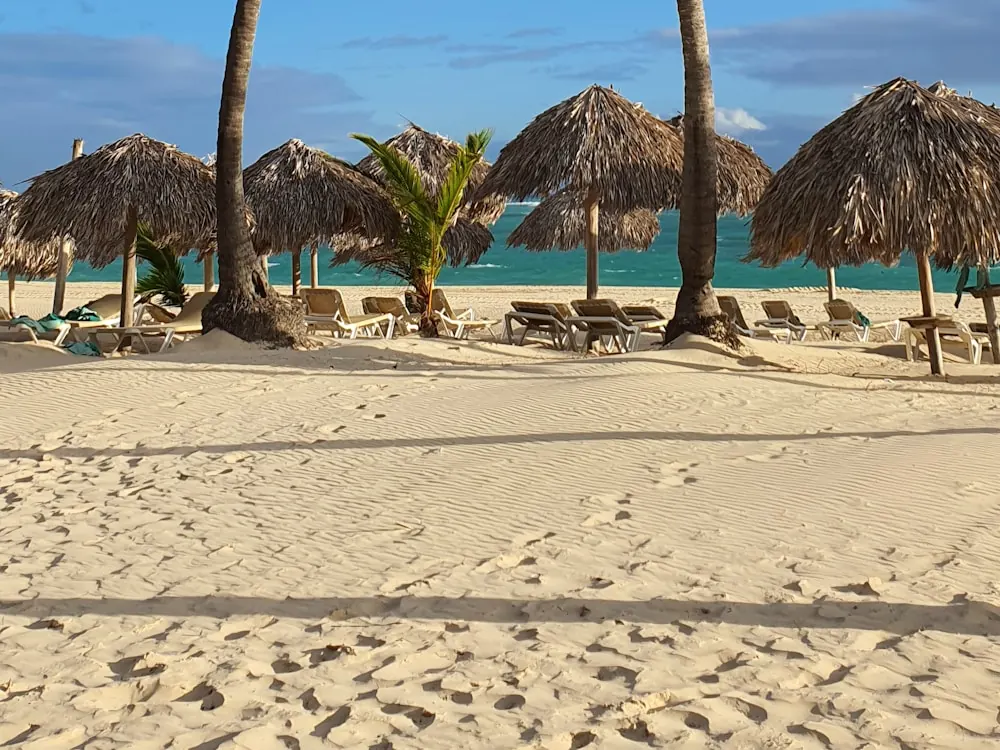
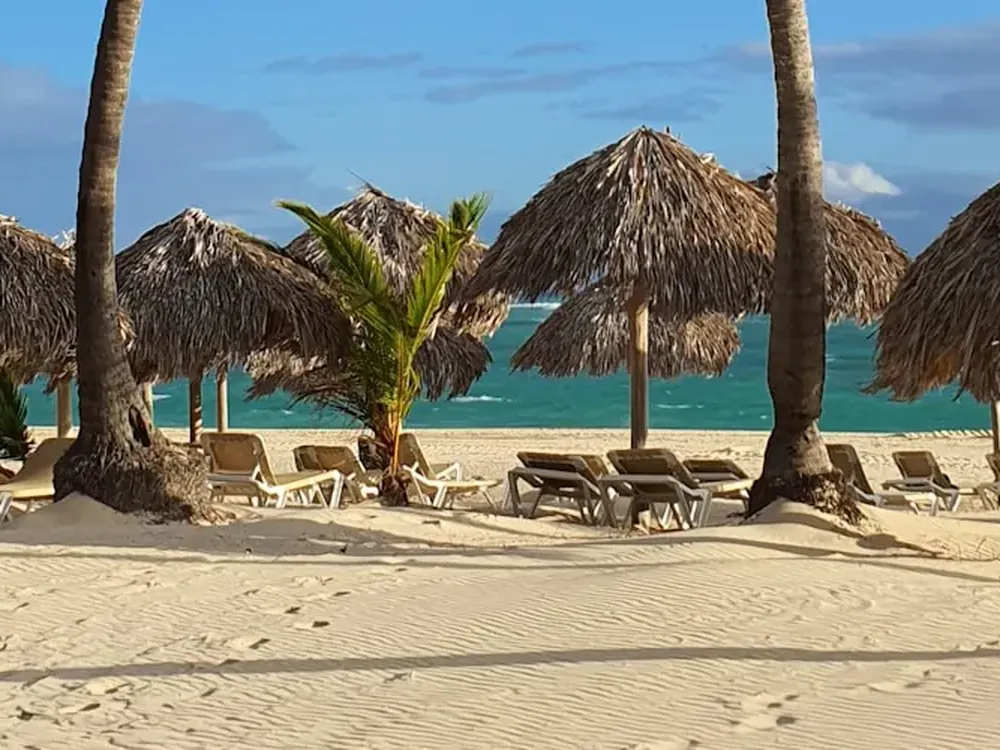
N-05.1: inventario de las 22 fotos de public/destinos/, recorte de punta-cana y alt corregidos (#36)
Revisión imagen por imagen (22/22, con lectura visual real, no por nombre de archivo) contra
los seis criterios de fase-5-fotografia.md §3 y las reglas de encuadre §4: 13 se quedan, 1 se
re-encuadra (punta-cana.webp, aplicado con Pillow porque sips no puede escribir WebP) y 8 se
reemplazan (provisional, prioridad ya declarada en §5). Inventario completo con uso real, luz,
personas y composición en docs/brand/specs/ejecucion/N-05.1-inventario-fotos.md.

Los tres alt de messages/{es,en}.json que describían algo ausente de la foto (viajeros que no
están, atardecer que es día nublado, playa que es una vista aérea sin playa) se reescriben para
describir lo que sí se ve, en los dos idiomas.

Hallazgos fuera de alcance documentados sin corregir: 4 rutas de galería rotas en
lib/mock/offers.ts, cancun-3.webp huérfana con posible marca de tercero en unas banderas, y
nosotros.webp con alt="" siendo una foto de contenido, no decorativa.

diff --git a/docs/brand/specs/ejecucion/N-05.1-inventario-fotos.md b/docs/brand/specs/ejecucion/N-05.1-inventario-fotos.md
@@ -1,0 +1,113 @@
+# N-05.1 — Inventario de las 22 imágenes de `public/destinos/`
+
+> Fuente: `docs/brand/specs/fase-5-fotografia.md` §1, §3, §4, §5. Revisión hecha imagen por
+> imagen (herramienta de lectura de imágenes), con el criterio de marca puesto y priorizando
+> la vista móvil. Continúa la revisión de 9/22 que ya traía fase-5 §1.2 — aquí van las 22.
+>
+> Veredicto: **se queda** (cumple los seis criterios para su uso) · **se re-encuadra** (el
+> contenido sirve, el recorte estaba mal) · **se reemplaza** (no cumple y no se arregla
+> recortando; queda provisional, ver `N-05.2`).
+
+## Herramientas de recorte
+
+`sips` (macOS) puede **leer** WebP (dimensiones, píxeles) pero **no puede escribir** WebP
+(`Error: Can't write format: org.webmproject.webp` — probado, no es un supuesto). El entorno sí
+tenía `cwebp` y Pillow (`python3 -c "import PIL"`) instalados vía Homebrew, sin necesidad de red,
+así que el recorte de `punta-cana.webp` se hizo con Pillow (decode → crop → resize LANCZOS →
+re-encode WebP `quality=80, method=6`) y sí se aplicó de verdad al archivo del repo.
+
+## Tabla (22 filas)
+
+| # | Archivo | Uso real (dónde se referencia) | Dimensiones | Personas | Luz | Composición / encuadre | **Veredicto** |
+|---|---|---|---|---|---|---|---|
+| 1 | `home-hero.webp` | Hero home (foto 1), `app/[locale]/(sitio)/page.tsx` | 1920×1080 (hero escritorio) | No | Natural, rayos de sol ✓ | Paisaje sin gente; el hero de home exige personas (§3.1, obligatorio) | **Se reemplaza** — prioridad 1 (fase-5 §5) |
+| 2 | `home-hero-movil.webp` | Hero home, recorte móvil de la misma foto 1 | 900×1350 (hero móvil 2:3) | No | Natural, mismos rayos | Mismo problema de fondo que #1 (sin gente); además la franja donde vive el texto móvil (72% inferior, §4) cae sobre bosque denso, no limpia — no se arregla recortando porque el defecto es "no hay persona", no el encuadre | **Se reemplaza** — junto con #1 (mismo origen) |
+| 3 | `cartagena-hero.webp` | Ciclo hero home (slide 2) y hero destino Cartagena; también reutilizada como `imagenHero` del mock "Guatapé" en `lib/mock/destinations.ts` | 1920×1080 | No (una persona minúscula, borrosa, en el extremo derecho — no es el sujeto) | Plana, día nublado | Composición llena borde a borde (balcón, farol, muro) — no hay tercio inferior izquierdo limpio para el titular (§4) en ningún recorte posible dentro de la misma foto | **Se reemplaza** |
+| 4 | `cartagena.webp` | Tarjeta destino Cartagena (`imagen`) | 1000×750 (tarjeta 4:3) | No | Cálida ✓ | Calle colorida reconocible, borde inferior es calle/acera (nada crítico ahí) | **Se queda** |
+| 5 | `cartagena-2.webp` | Galería oferta "Cartagena 4 días" (`lib/mock/offers.ts`) | 600×600 (galería 1:1) | **Sí** — una persona caminando, de espaldas, pequeña y lejana | Natural, cálida | Calle de flores y balcones, reconocible | **Se queda** — aporta a la cuota de "1 de cada 3 con personas" (§3.1), aunque sea de espaldas y a distancia |
+| 6 | `cartagena-3.webp` | Galería oferta "Cartagena 4 días" | 600×600 | **Sí** — palenquera, rostro y sonrisa visibles, expresión genuina | Natural ✓ | Retrato reconocible (taxi amarillo, vestido tradicional), momento auténtico | **Se queda** — es la mejor foto del set: cumple los seis criterios sin reservas. Recomendación fuera de alcance de este nodo: evaluar promoverla a un uso más visible (hero/campaña) en una fase de arquitectura, no en este PR |
+| 7 | `san-andres.webp` | Tarjeta destino San Andrés | 1000×750 | No | Natural ✓ | Playa y mar turquesa reconocibles; postal, pero las fichas de destino pueden mostrar el lugar sin gente si es reconocible (§3.1) | **Se queda** |
+| 8 | `san-andres-hero.webp` | Ciclo hero home (slide 3) | 1920×1080 | No | Natural ✓ | Vista aérea de un islote con arrecife — **no hay playa en el encuadre**, ver alt corregido | **Se queda** — foto secundaria del ciclo, no exige la misma dirección de arte que la foto 1 (`components/ui/hero.tsx`) |
+| 9 | `santa-marta.webp` | Tarjeta destino Santa Marta | 1000×750 | No | Cálida ✓ | Primer plano de palmeras genérico — **no es reconocible como Santa Marta específicamente**, podría ser cualquier trópico | **Se reemplaza** — falla el criterio "Destinos: reconocible" y no se arregla recortando |
+| 10 | `santa-marta-hero.webp` | Hero destino Santa Marta | 1920×1080 | No | Dorada, atardecer real ✓ | Costa rocosa reconocible (tipo Tayrona), zona inferior en silueta oscura y limpia | **Se queda** |
+| 11 | `punta-cana.webp` | Tarjeta destino Punta Cana | 1000×750 | No | Natural ✓ | **Recortada en este nodo** — antes: mitad de la imagen era arena vacía sin foco (verdict original de fase-5 §1.2: "postal de resort desierto"); ahora el foco son las sombrillas/camastros/mar, arena solo de fondo | **Se re-encuadra** — recorte aplicado (ver abajo) |
+| 12 | `punta-cana-hero.webp` | Hero destino Punta Cana | 1920×1080 | No | Natural ✓ | Vista aérea, reconocible, sombra de palmeras en el tercio inferior izquierdo (aceptable, no compite con el titular) | **Se queda** |
+| 13 | `cancun.webp` | Tarjeta destino Cancún | 1000×750 | **Sí** — persona relajándose en camastro (postura natural, estirándose) + nadadores al fondo | Natural ✓ | Playa reconocible, momento auténtico de descanso | **Se queda** — buen ejemplo, aporta a la cuota de personas |
+| 14 | `cancun-hero.webp` | Hero destino Cancún | 1920×1080 | No (figuras humanas minúsculas en la arena, no son el sujeto) | Natural ✓ | Vista aérea reconocible | **Se queda** |
+| 15 | `cancun-2.webp` | Galería oferta "Cancún" | 600×600 | No | Natural, algo pálida (no es cielo gris plano) | Palmera + mar turquesa, reconocible | **Se queda** |
+| 16 | `cancun-3.webp` | **Ninguno** — no aparece en ningún `.ts`/`.tsx` del repo (huérfana) | 600×600 | Personas muy lejanas nadando (apenas visibles) | Natural | Reconocible, pero hay **banderas azules con texto/logo que parece de un hotel o mayorista**, no se alcanza a leer con certeza | **Se reemplaza / retirar** — dos motivos: (a) posible marca de tercero visible en las banderas (§6, "qué se rechaza"), revisar de cerca antes de publicarla en cualquier sitio; (b) hoy no se usa en ningún lado, así que no hay urgencia, pero tampoco debería entrar a producción sin resolver (a) |
+| 17 | `eje-cafetero.webp` | Tarjeta destino Eje Cafetero; también reutilizada como `imagen` del mock "Jardín" | 1000×750 | No | Natural, sol parcial ✓ | Valle de Cocora con palmas de cera — muy reconocible | **Se queda** |
+| 18 | `eje-cafetero-2.webp` | Galería oferta "Eje Cafetero" (aparece dos veces en `lib/mock/offers.ts`, en dos ofertas distintas) | 600×600 | No | Natural, macro con sombra (no es "gris plano") | Detalle de cerezas de café, reconocible y relevante al tema | **Se queda** |
+| 19 | `eje-cafetero-3.webp` | Galería oferta "Eje Cafetero 4 días" | 600×600 | No | **Cielo gris y plano** | Ladera verde reconocible pero apagada | **Se reemplaza** — ya señalada en fase-5 §1.2, prioridad 3 ("las dos de luz gris y plana") |
+| 20 | `eje-cafetero-hero.webp` | Hero destino Eje Cafetero; también reutilizada como `imagenHero` del mock "Jardín" | 1920×1080 | No | Cielo plano rosado/brumoso — **posible viraje de color** (tono uniforme, no es un atardecer natural claro) | Valle de Cocora, muy reconocible | **Se queda, con reserva** — cumple recorte y reconocibilidad; el cielo tiene un tono parejo que podría ser niebla real o un filtro de edición (§3 "Edición: sin filtros extremos"). No hay evidencia suficiente para forzar reemplazo, se anota para revisión humana |
+| 21 | `eje-cafetero-campana.webp` | Hero de campaña (`lib/mock/campaigns.ts`) | 1600×900 (hero campaña) | No | **Cielo gris y plano**, tormentoso | Fincas cafeteras en terrazas, reconocible | **Se reemplaza** — incumple dos reglas a la vez: la luz (§3) y la regla obligatoria de personas en hero de campaña (§3.1). Prioridad 3 (fase-5 §5) |
+| 22 | `nosotros.webp` | Página "Nosotros" (`app/[locale]/(sitio)/nosotros/page.tsx`) | 1200×900 (tarjeta 4:3) | Sí, pero **de espaldas, sin rostros** | Contraluz cálido ✓ | Grupo caminando en una ladera seca que no parece Colombia — stock genérico, sin diversidad reconocible | **Se reemplaza** — prioridad 2 (fase-5 §5), ya señalada en §1.2 |
+
+## Resumen de veredictos
+
+- **Se queda:** 13 — `cartagena`, `cartagena-2`, `cartagena-3`, `san-andres`, `san-andres-hero`,
+  `santa-marta-hero`, `punta-cana-hero`, `cancun`, `cancun-hero`, `cancun-2`, `eje-cafetero`,
+  `eje-cafetero-2`, `eje-cafetero-hero` (esta última con reserva sobre el cielo, ver fila 20).
+- **Se re-encuadra:** 1 — `punta-cana` (recorte aplicado en este PR).
+- **Se reemplaza:** 8 — `home-hero`, `home-hero-movil`, `cartagena-hero`, `santa-marta`,
+  `eje-cafetero-3`, `eje-cafetero-campana`, `nosotros`, `cancun-3` (esta última además huérfana
+  y con una marca de tercero potencialmente visible).
+
+Nota sobre el conteo: fase-5 §1.1 dice que la familia "hero de escritorio 1920×1080" tiene 6
+imágenes; contando de verdad hay **7** (`home-hero`, `cartagena-hero`, `santa-marta-hero`,
+`punta-cana-hero`, `cancun-hero`, `san-andres-hero`, `eje-cafetero-hero`). Es una imprecisión
+menor del conteo original del spec, no un archivo faltante — el total de 22 y el resto de la
+tabla técnica sí cuadran.
+
+## Hallazgos no anticipados (fuera del alcance de este nodo, no corregidos aquí)
+
+1. **Referencias rotas en `lib/mock/offers.ts`:** las ofertas de Santa Marta y Punta Cana listan
+   `/destinos/santa-marta-2.webp`, `/destinos/santa-marta-3.webp`, `/destinos/punta-cana-2.webp`
+   y `/destinos/punta-cana-3.webp` — **ninguno de estos 4 archivos existe** en
+   `public/destinos/`. Esas galerías de oferta van a mostrar una imagen rota. No se corrige aquí
+   porque editar `offers.ts` está fuera de `toca` de este nodo (`public/destinos/**`,
+   `messages/es.json`, `messages/en.json`) y porque tocar datos mock de ofertas no es "imagen ni
+   alt". Queda para quien mantenga `lib/mock/offers.ts`.
+2. **`cancun-3.webp` es huérfana** (no referenciada en ningún `.ts`/`.tsx`) y probablemente
+   muestra una bandera de marca de tercero (ver fila 16). Como no se usa hoy no bloquea nada,
+   pero tampoco debería activarse sin resolver esa duda.
+3. **`nosotros.webp` no tiene `alt` en absoluto** (`alt=""` hardcodeado en
+   `app/[locale]/(sitio)/nosotros/page.tsx:91`), tratada como decorativa. No es una imagen
+   decorativa — es la foto que ilustra "quiénes somos". No se corrige aquí porque no vive en
+   `messages/es.json`/`messages/en.json` (el mandato explícito de este nodo) y porque escribirle
+   un `alt` real implicaría agregar una clave de i18n nueva, que es una decisión de contenido más
+   allá de "corregir lo que ya existe". Se dejó documentado para quien reemplace la foto (prioridad
+   2 de este mismo inventario): al reemplazarla, escribir el `alt` a la vez.
+4. **`cartagena-3.webp`** (fila 6) es notablemente mejor que el resto del set y hoy vive
+   escondida en una galería de oferta secundaria. Vale la pena considerarla para el hero o la
+   campaña en una fase de arquitectura — no se reasigna aquí porque cambiar qué imagen usa qué
+   componente es una decisión de código/arquitectura, no de inventario de fotos.
+
+## `alt` corregidos (`messages/es.json` / `messages/en.json`)
+
+Los únicos tres `alt` de fotografía que viven en los archivos de mensajes son los del ciclo del
+hero de home (`home.heroImagenAlt`, `heroImagenAlt2`, `heroImagenAlt3`). Los tres describían algo
+ausente de la foto real (F-2):
+
+| Clave | Antes (ES) | Después (ES) |
+|---|---|---|
+| `heroImagenAlt` | "Viajeros mirando un valle de montaña al amanecer" — **no hay viajeros** | "Valle de montaña cubierto de bosque, con rayos de sol entre las nubes" |
+| `heroImagenAlt2` | "Calles amuralladas de Cartagena al atardecer" — la luz es plana/nublada, no atardecer | "Balcones y fachadas coloniales en una calle de Cartagena, con una torre al fondo" |
+| `heroImagenAlt3` | "Playa de aguas turquesa en San Andrés" — **no hay playa**, es una vista aérea de un islote | "Vista aérea de un islote rodeado de arrecife en aguas turquesas de San Andrés" |
+
+Traducciones equivalentes aplicadas en `en.json`. El resto de los `alt` de fotos del sitio
+(`destino.imagen` con `alt=""`, `foto.alt` de las ofertas, `nosotros.webp`) vive en JSX o en datos
+mock, no en estos dos archivos, y queda fuera del mandato explícito de este nodo.
+
+## Recortes: aplicado vs. pendiente
+
+- **Aplicado:** `public/destinos/punta-cana.webp`. Recorte 667×500 (top-anchored, centrado
+  horizontalmente: `left=166, top=0, right=833, bottom=500` sobre el original 1000×750),
+  reescalado a 1000×750 con Lanczos y reexportado a WebP (`quality=80, method=6`). Peso: 133 118 B
+  → 97 686 B (baja, no sube — cumple F-7 para este archivo).
+- **Pendiente (no aplicable por recorte):** ninguno de los 8 "se reemplaza" se arregla
+  recortando — el defecto de cada uno (falta de personas, luz plana en toda la toma, o falta de
+  reconocibilidad) está en el contenido, no en el encuadre. Es exactamente la distinción que hace
+  fase-5 §5 entre "se re-encuadra" y "se reemplaza": si hiciera falta forzar un recorte en
+  cualquiera de estos ocho para que "funcionara", sería la señal de que el veredicto correcto es
+  reemplazo, no recorte.
